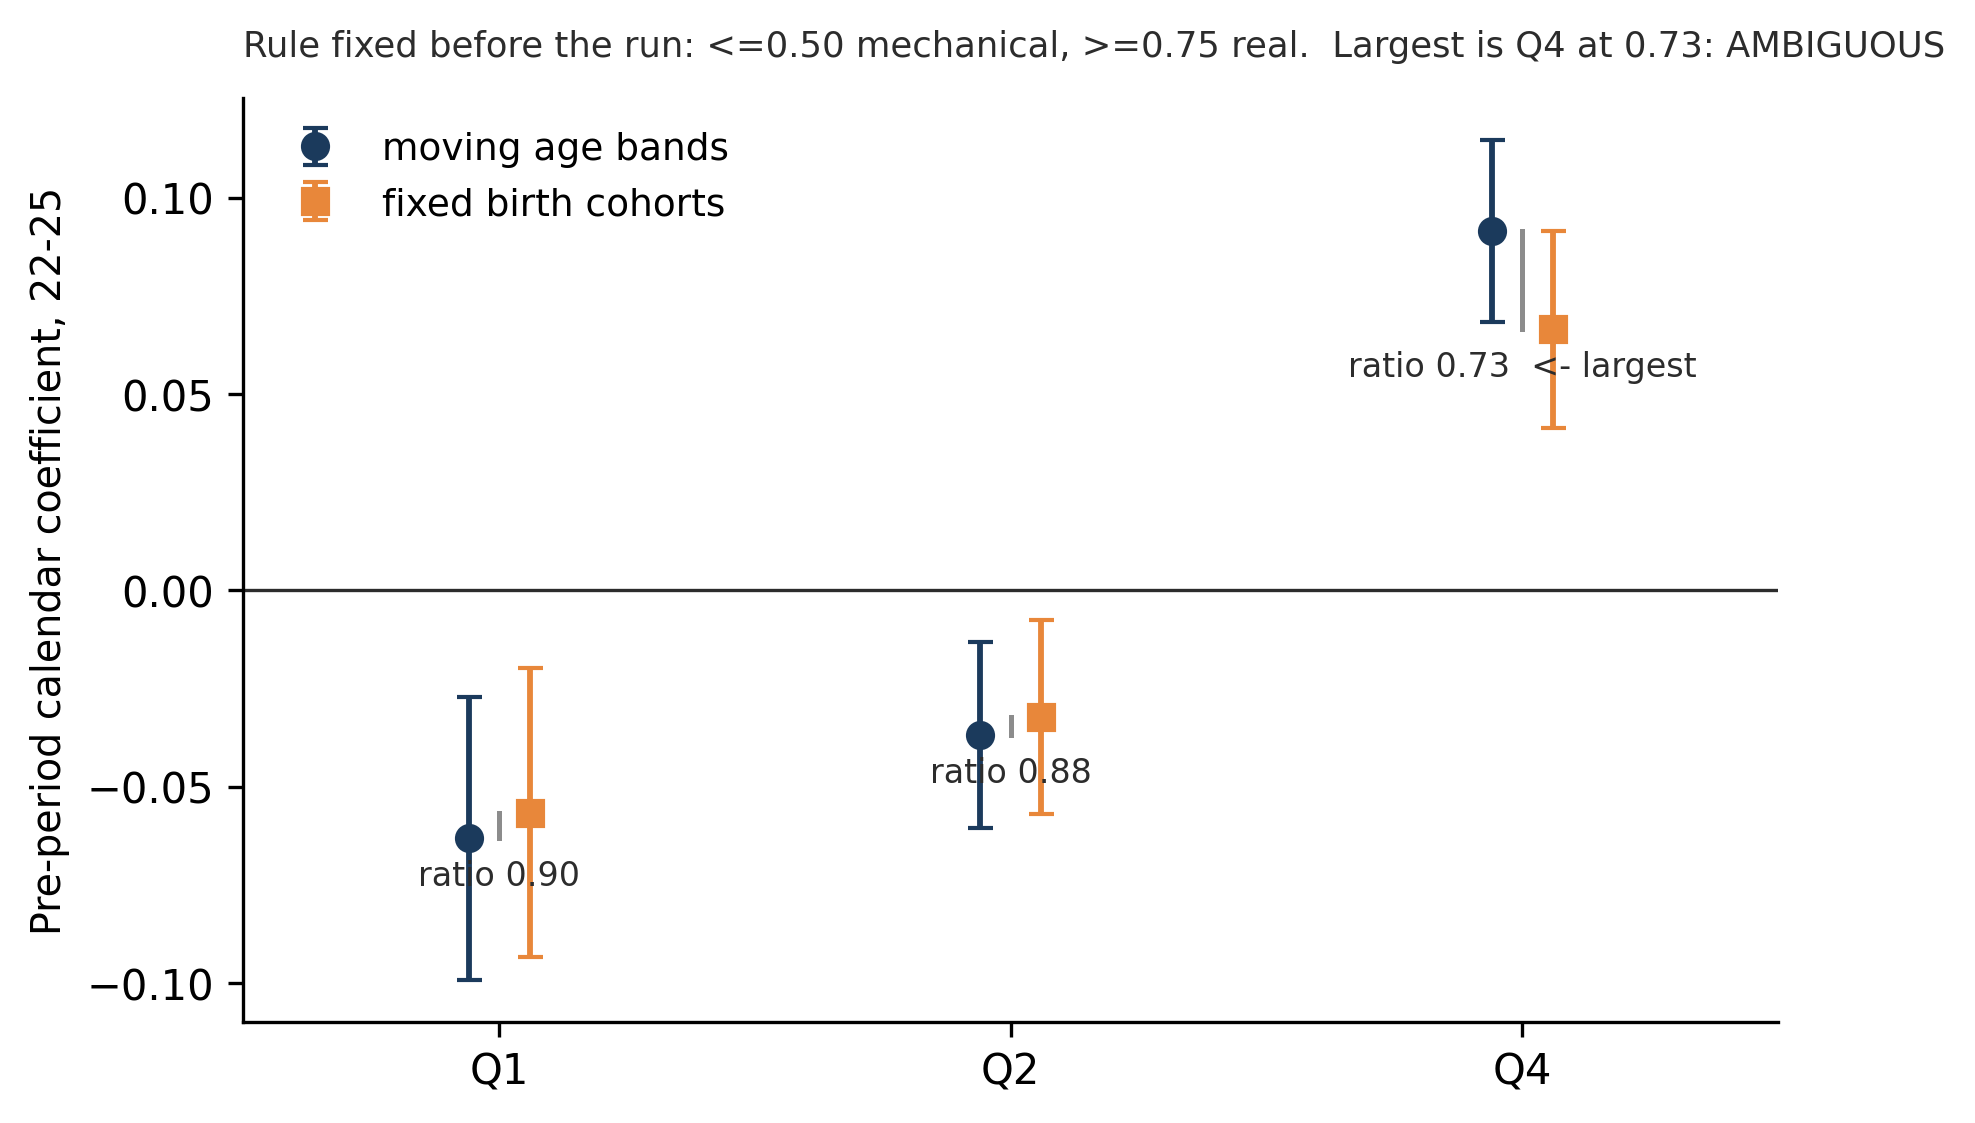
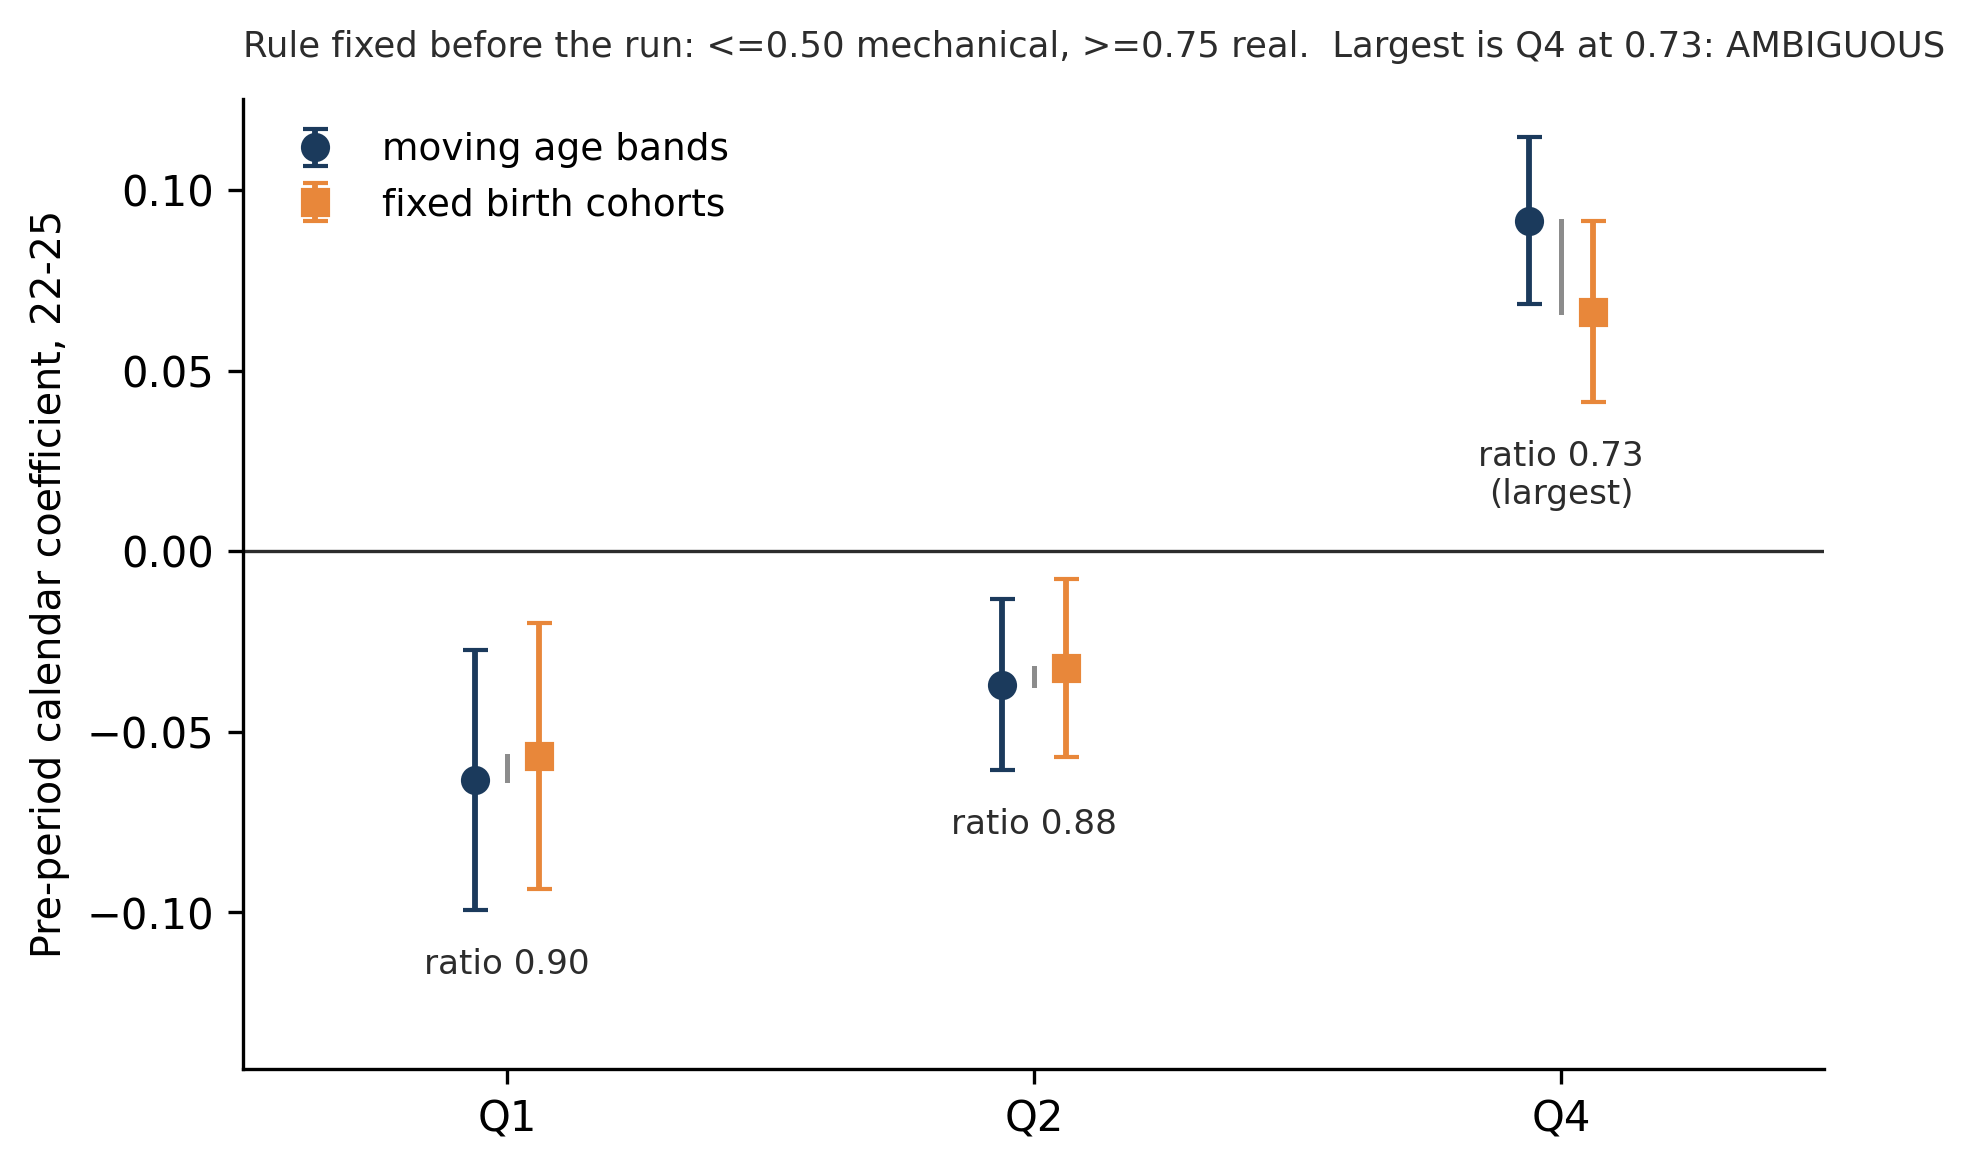
figA3: ratio labels sat on top of the error bars they describe
Placed below the lower whisker rather than the lower marker.

Claude-Session: https://claude.ai/code/session_01Ne4TL9xKpGBakALMCR9kK6

diff --git a/revision/local/l17_fig_cohort_basis.py b/revision/local/l17_fig_cohort_basis.py
@@ -65,7 +65,8 @@ def main() -> int:
                "REAL" if r >= REAL else "AMBIGUOUS")
 
     terms = list(piv.index)
-    fig, ax = plt.subplots(figsize=(6.6, 4.0))
+    fig, ax = plt.subplots(figsize=(6.8, 4.2))
+    lows, labels = [], []
     for i, t in enumerate(terms):
         a, c = piv.loc[t, "ageband"], piv.loc[t, "cohort"]
         ax.plot([i, i], [a, c], color=GRAY, lw=1.2, zorder=1)
@@ -76,10 +77,19 @@ def main() -> int:
                     color=ORANGE, ms=6, capsize=3, lw=1.4,
                     label="fixed birth cohorts" if i == 0 else None,
                     zorder=2)
-        mark = "  <- largest" if t == biggest else ""
-        ax.text(i, min(a, c) - 0.012,
-                f"ratio {piv.loc[t, 'ratio']:.2f}{mark}", fontsize=8,
-                ha="center", color=DARK_TEXT)
+        # below the LOWER whisker, not below the lower marker, or the
+        # label sits on top of the error bar it is describing
+        floor = min(a - 1.96 * se.loc[t, "ageband"],
+                    c - 1.96 * se.loc[t, "cohort"])
+        lows.append(floor)
+        labels.append((i, floor, piv.loc[t, "ratio"], t == biggest))
+
+    pad = 0.055 * (max(piv[["ageband", "cohort"]].max()) - min(lows))
+    for i, floor, ratio, is_big in labels:
+        ax.text(i, floor - pad,
+                f"ratio {ratio:.2f}" + ("\n(largest)" if is_big else ""),
+                fontsize=8.2, ha="center", va="top", color=DARK_TEXT)
+    ax.set_ylim(min(lows) - 4.2 * pad, None)
 
     ax.axhline(0, color=DARK_TEXT, lw=0.8)
     ax.set_xticks(range(len(terms)))
